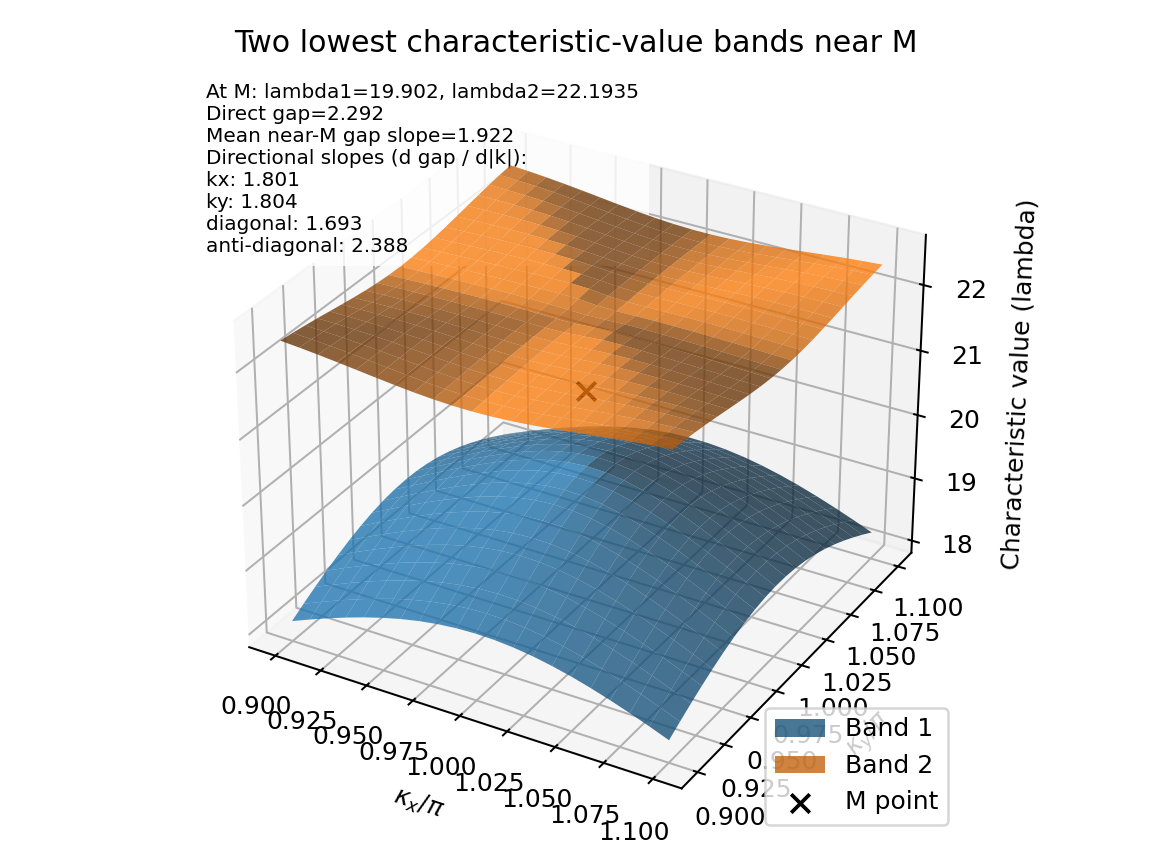
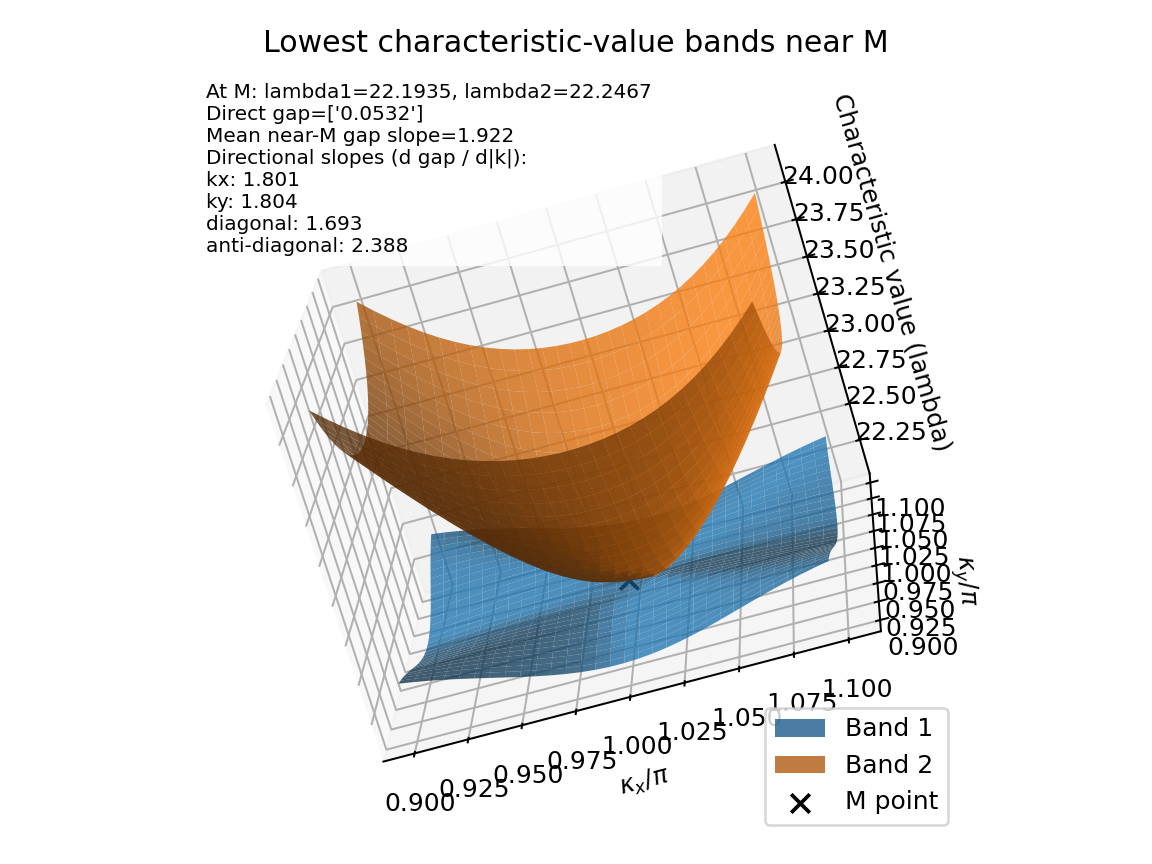
added interactive view to 3d plots and plotting method for touching bands

Changed region(s): [[0.1875, 0.0938, 0.9062, 0.9688], [0.1875, 0.0312, 0.8125, 0.0625], [0.2812, 0.0938, 0.5625, 0.1562]]

diff --git a/Translated Code/matlab_translation/main.py b/Translated Code/matlab_translation/main.py
@@ -2,7 +2,8 @@ import sys
 from pathlib import Path
 
 import matplotlib
-matplotlib.use("Agg")
+# matplotlib.use("Agg")
+matplotlib.use("QtAgg")
 import matplotlib.pyplot as plt
 import numpy as np
 from scipy.linalg import eigh
@@ -76,13 +77,37 @@ def _lowest_eigenfrequencies(matrices, kappa, n_omega):
     return np.sqrt(_lowest_characteristic_values(matrices, kappa, n_omega))
 
 
-def _band_path(lat_c, n_kappa):
-    points = [
-        (np.pi * np.ones(n_kappa), np.linspace(np.pi, 0.0, n_kappa)),
-        (np.linspace(np.pi, 0.0, n_kappa), np.zeros(n_kappa)),
-        (np.zeros(n_kappa), np.linspace(0.0, np.pi, n_kappa)),
-        (np.linspace(0.0, np.pi, n_kappa), np.pi * np.ones(n_kappa)),
-    ]
+# def _band_path_TXMT(lat_c, n_kappa):
+#     """Return the T-to-X-to-M-to-T Bloch path in MATLAB coordinates."""
+#     points = [
+#         (np.linspace(0.0, np.pi, n_kappa),np.zeros(n_kappa)),
+#         (np.pi * np.ones(n_kappa), np.linspace(0.0, np.pi, n_kappa)),
+#         (np.linspace(np.pi, 0.0, n_kappa), np.linspace(np.pi, 0.0, n_kappa)),
+#     ]
+#     return np.vstack([
+#         np.column_stack((kx, ky)) / lat_c
+#         for kx, ky in points
+#     ])
+    
+    
+def _band_path(lat_c, n_kappa, path_type="MXTxM"):
+    if path_type == "TXMT":
+        """Return the T-to-X-to-M-to-T Bloch path in MATLAB coordinates."""
+        points = [
+            (np.linspace(0.0, np.pi, n_kappa),np.zeros(n_kappa)),
+            (np.pi * np.ones(n_kappa), np.linspace(0.0, np.pi, n_kappa)),
+            (np.linspace(np.pi, 0.0, n_kappa), np.linspace(np.pi, 0.0, n_kappa)),
+        ]
+    elif path_type == "MXTxM":
+        """Return the M-to-X-to-T-to-X'-to-M Bloch path in MATLAB coordinates."""
+        points = [
+            (np.pi * np.ones(n_kappa), np.linspace(np.pi, 0.0, n_kappa)),
+            (np.linspace(np.pi, 0.0, n_kappa), np.zeros(n_kappa)),
+            (np.zeros(n_kappa), np.linspace(0.0, np.pi, n_kappa)),
+            (np.linspace(0.0, np.pi, n_kappa), np.pi * np.ones(n_kappa)),
+        ]
+    else:
+        raise ValueError("path_type must be either 'TXMT' or 'MXTxM'.")
     return np.vstack([
         np.column_stack((kx, ky)) / lat_c
         for kx, ky in points
@@ -90,13 +115,19 @@ def _band_path(lat_c, n_kappa):
 
 
 def solve_band_structure(lat_c=1.0, n_kappa=100, n_omega=7, mesh_size=0.02):
-    """Compute bands along the MATLAB M-to-X-to-T-to-M Bloch path."""
+    # """Compute bands along the MATLAB M-to-X-to-T-to-M Bloch path."""
     matrices = _assemble_cell(lat_c=lat_c, mesh_size=mesh_size)
     return _solve_band_structure(matrices, lat_c, n_kappa, n_omega)
 
 
-def _solve_band_structure(matrices, lat_c, n_kappa, n_omega):
-    kappa_vec = _band_path(lat_c, n_kappa)
+def _solve_band_structure(matrices, lat_c, n_kappa, n_omega, path_type="MXTxM"):
+    # if path_type == "TXMT":
+    #     kappa_vec = _band_path_TXMT(lat_c, n_kappa)
+    #     # title = "$\Gamma$-X-M-$\Gamma$"
+    # else:
+    #     kappa_vec = _band_path_MXTxM(lat_c, n_kappa)
+    #     # title = "M-X-$\Gamma$-X'-M"
+    kappa_vec = _band_path(lat_c, n_kappa, path_type)
     omega = np.empty((n_omega, kappa_vec.shape[0]), dtype=float)
     for n, kappa in enumerate(kappa_vec):
         omega[:, n] = (
@@ -261,7 +292,7 @@ def _solve_lattice_point_bands(
     estimate = {
         "kappa_center": kappa_center,
         "characteristic_values": values_at_center,
-        "direct_gap": float(values_at_center[1] - values_at_center[0]),
+        "direct_gap": [float(values_at_center[i+1] - values_at_center[i]) for i in range(n_bands-1)],
         "mean_gap_slope": float(np.mean(list(directional_slopes.values()))),
         "directional_gap_slopes": directional_slopes,
         "fit_radius": float(radii[fit_count]),
@@ -269,13 +300,25 @@ def _solve_lattice_point_bands(
     return characteristic_values, kappa_x, kappa_y, estimate
 
 
-def plot_band_structure(omega):
+def plot_band_structure(omega, path_type=""):
     fig, ax = plt.subplots()
     for band in range(omega.shape[0]):
         ax.plot(omega[band, :], linewidth=1.8, label=f"band {band + 1}")
     ax.set_xlabel("Bloch point index")
     ax.set_ylabel("Frequency")
-    ax.set_title("Square-lattice band structure (M-X-T-M-X)")
+    
+    if path_type == "TXMT":
+        ax.set_xticks([0, omega.shape[1] // 3, 2 * omega.shape[1] // 3, omega.shape[1] - 1])
+        ax.set_xticklabels(["$\Gamma$", "X", "M", "$\Gamma$"])
+        title = "$\Gamma$-X-M-$\Gamma$ band structure"
+    elif path_type == "MXTxM":
+        ax.set_xticks([0, omega.shape[1] // 4, 2 * omega.shape[1] // 4, 3 * omega.shape[1] // 4, omega.shape[1] - 1])
+        ax.set_xticklabels(["M", "X", "$\Gamma$", "X'", "M"])
+        title = "M-X-$\Gamma$-X'-M band structure"
+    else:
+        title = "Band structure"
+        
+    ax.set_title(title)
     ax.legend()
     fig.tight_layout()
     return fig, ax
@@ -377,16 +420,16 @@ def plot_frequency_surfaces(omega, kappa_x, kappa_y):
 def _plot_lattice_point_bands(
     characteristic_values, kappa_x, kappa_y, estimate, point_label
 ):
-    """Plot the two lowest characteristic-value surfaces around a Bloch point."""
+    # """Plot the two lowest characteristic-value surfaces around a Bloch point."""
     fig = plt.figure()
     ax = fig.add_subplot(111, projection="3d")
     colors = ("tab:blue", "tab:orange")
-    for band in range(2):
+    for band in range(characteristic_values.shape[2]):
         ax.plot_surface(
             kappa_x / np.pi,
             kappa_y / np.pi,
             characteristic_values[:, :, band],
-            color=colors[band],
+            # color=colors[band],
             alpha=0.78,
             linewidth=0,
             label=f"Band {band + 1}",
@@ -414,7 +457,7 @@ def _plot_lattice_point_bands(
         (
             f"At {point_label}: lambda1={values_at_m[0]:.6g}, "
             f"lambda2={values_at_m[1]:.6g}\n"
-            f"Direct gap={estimate['direct_gap']:.4g}\n"
+            f"Direct gap={[f'{gap:.4g}' for gap in estimate['direct_gap']]}\n"
             f"Mean near-M gap slope={estimate['mean_gap_slope']:.4g}\n"
             f"Directional slopes (d gap / d|k|):\n{slope_text}"
         ),
@@ -426,7 +469,7 @@ def _plot_lattice_point_bands(
     ax.set_xlabel(r"$\kappa_x/\pi$")
     ax.set_ylabel(r"$\kappa_y/\pi$")
     ax.set_zlabel("Characteristic value (lambda)")
-    ax.set_title(f"Two lowest characteristic-value bands near {point_label}")
+    ax.set_title(f"Lowest characteristic-value bands near {point_label}")
     ax.legend(loc="lower right")
     fig.tight_layout()
     return fig, ax
@@ -471,8 +514,16 @@ def plot_m_point_bands(characteristic_values, kappa_x, kappa_y, estimate):
         characteristic_values, kappa_x, kappa_y, estimate, "M"
     )
 
+def plot_m_point_touching_bands(characteristic_values, kappa_x, kappa_y, estimate):
+    """Plot precomputed characteristic-value bands close to M."""
+    estimate["characteristic_values"] = estimate["characteristic_values"][1:3]
+    estimate["direct_gap"] = estimate["direct_gap"][1:3]
+    return _plot_lattice_point_bands(
+        characteristic_values[:,:,1:3], kappa_x, kappa_y, estimate, "M"
+    )
 
 def main():
+    print(matplotlib.get_backend())
     # Graph images are written here; change this path to choose another location.
     output_dir = ROOT / "outputs"
     output_dir.mkdir(exist_ok=True)
@@ -483,40 +534,41 @@ def main():
     mesh_size = 0.02
     matrices = _assemble_cell(lat_c=lat_c, mesh_size=mesh_size)
 
-    # Band path: 100 samples on each of the four M-X-T-M-X path segments,
-    # with the lowest 7 bands computed at every Bloch vector.
-    path_samples = 100
-    path_band_count = 7
-    omega, _ = _solve_band_structure(
-        matrices, lat_c, path_samples, path_band_count
-    )
-    band_fig, _ = plot_band_structure(omega)
-    band_fig.savefig(output_dir / "band_structure.png", dpi=180)
-    plt.close(band_fig)
+    # # Band path: 100 samples on each of the path segments,
+    # # with the lowest 7 bands computed at every Bloch vector.
+    # path_type = "TXMT"  # or "MXTxM"
+    # path_samples = 100
+    # path_band_count = 7
+    # omega, _ = _solve_band_structure(
+    #     matrices, lat_c, path_samples, path_band_count, path_type
+    # )
+    # band_fig, _ = plot_band_structure(omega, path_type)
+    # band_fig.savefig(output_dir / "band_structure.png", dpi=180)
+    # plt.close(band_fig)
 
-    # Frequency surface centered at Gamma (0,0), spanning +/-0.1*pi/a
-    # on each reciprocal-lattice axis, sampled on a 21-by-21 grid.
-    # Increase grid_size for finer sampling; change center to inspect elsewhere.
-    gamma_grid_size = 21
-    gamma_band_count = 5
-    gamma_center = (0.0, 0.0)
-    surface_omega, kappa_x, kappa_y = _solve_frequency_surfaces(
-        matrices,
-        lat_c,
-        gamma_grid_size,
-        gamma_band_count,
-        gamma_center,
-    )
-    surface_fig, _ = plot_frequency_surfaces(surface_omega, kappa_x, kappa_y)
-    surface_fig.savefig(output_dir / "frequency_surfaces.png", dpi=180)
-    plt.close(surface_fig)
+    # # Frequency surface centered at Gamma (0,0), spanning +/-0.1*pi/a
+    # # on each reciprocal-lattice axis, sampled on a 21-by-21 grid.
+    # # Increase grid_size for finer sampling; change center to inspect elsewhere.
+    # gamma_grid_size = 21
+    # gamma_band_count = 5
+    # gamma_center = (0.0, 0.0)
+    # surface_omega, kappa_x, kappa_y = _solve_frequency_surfaces(
+    #     matrices,
+    #     lat_c,
+    #     gamma_grid_size,
+    #     gamma_band_count,
+    #     gamma_center,
+    # )
+    # surface_fig, _ = plot_frequency_surfaces(surface_omega, kappa_x, kappa_y)
+    # surface_fig.savefig(output_dir / "frequency_surfaces.png", dpi=180)
+    # plt.close(surface_fig)
 
     # M-point plot: center is (pi/a, pi/a); radius_fraction=0.1 samples
     # +/-0.1*pi/a along each axis. grid_size controls the 2-D plot resolution.
     # Two lowest characteristic-value bands are shown; estimate_samples controls
     # the number of radial samples used for the near-M gap-slope estimate.
-    m_grid_size = 21
-    m_band_count = 2
+    m_grid_size = 31
+    m_band_count = 3
     m_radius_fraction = 0.1
     m_estimate_samples = 11
     m_values, m_kx, m_ky, m_estimate = _solve_m_point_bands(
@@ -527,7 +579,9 @@ def main():
         m_radius_fraction,
         m_estimate_samples,
     )
-    m_fig, _ = plot_m_point_bands(m_values, m_kx, m_ky, m_estimate)
+    # m_fig, _ = plot_m_point_bands(m_values, m_kx, m_ky, m_estimate)
+    m_fig, _ = plot_m_point_touching_bands(m_values, m_kx, m_ky, m_estimate)
+    plt.show()
     m_fig.savefig(output_dir / "m_point_lower_bands.png", dpi=180)
     plt.close(m_fig)
 
@@ -537,7 +591,7 @@ def main():
     print(
         "M-point estimate: "
         f"lambda1={values_at_m[0]:.8g}, lambda2={values_at_m[1]:.8g}, "
-        f"direct gap={m_estimate['direct_gap']:.8g}"
+        f"direct gap={[f'{gap:.8g}' for gap in m_estimate['direct_gap']]}"
     )
     print(
         "M-point normalized frequencies: "
